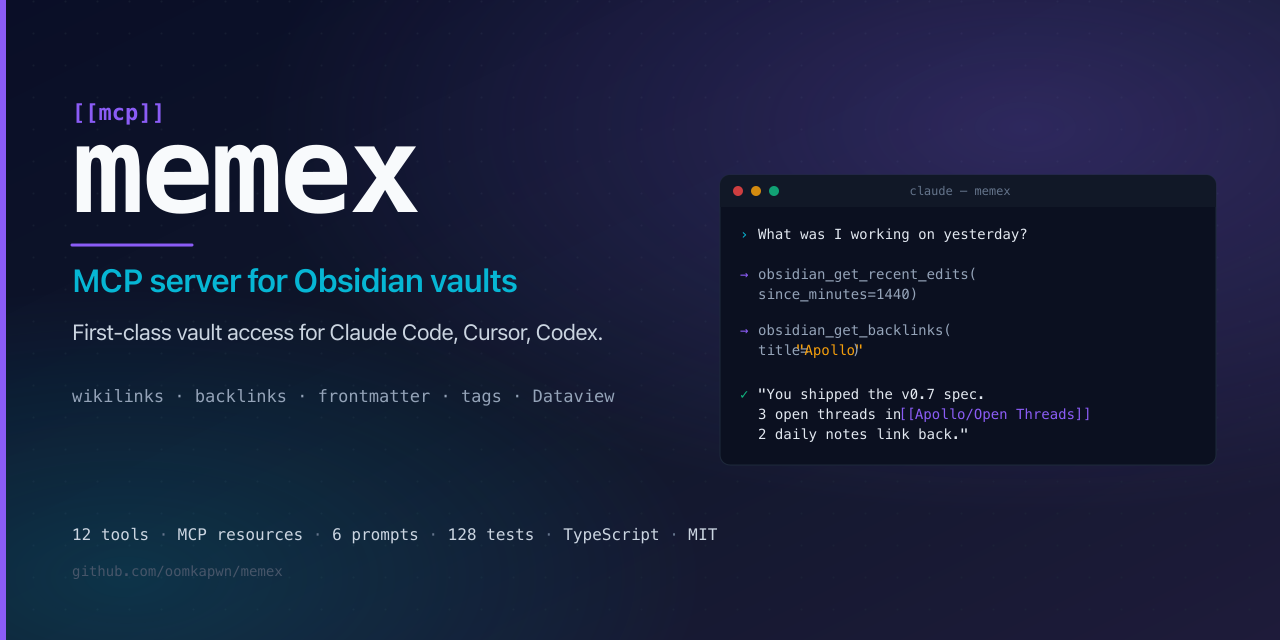
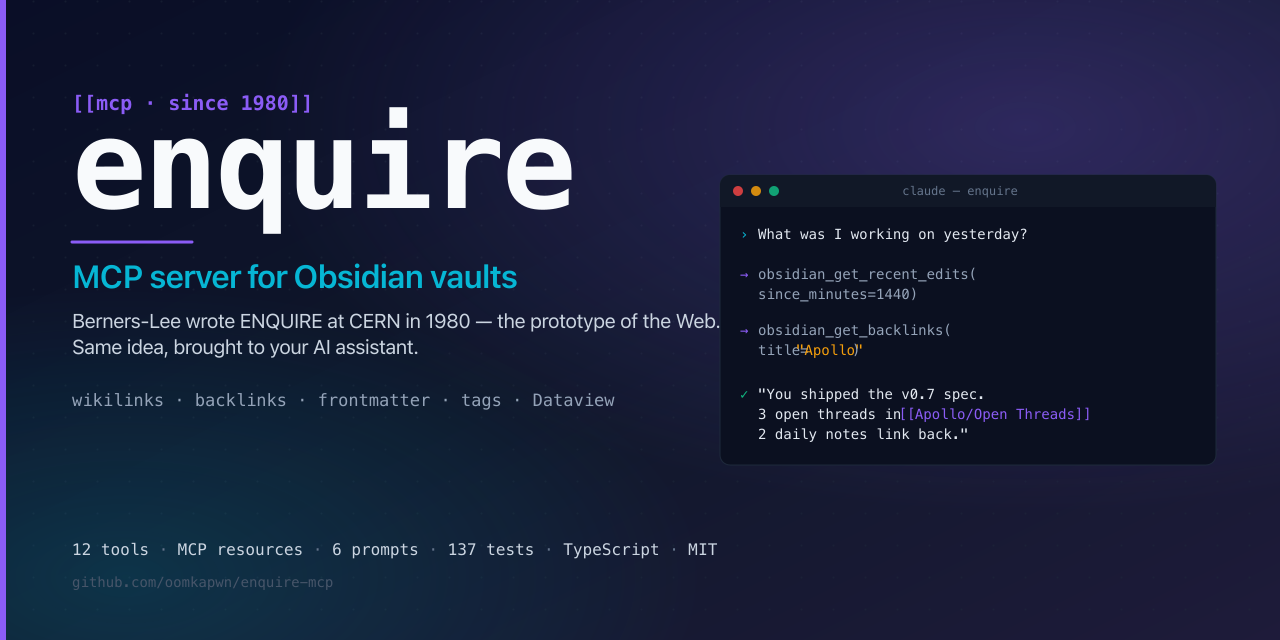
feat: v0.7.1 — rename memex → enquire-mcp (final)
Deeper landscape audit after v0.7.0 showed memex namespace is even
MORE crowded than obsidian-mcp:
- WorldBrain/Memex (browser ext with explicit memex-obsidian plugin)
- iamtouchskyer/memex (Zettelkasten persistent memory for AI agents,
  same client list — Claude Code/Cursor/Codex/Windsurf — same MCP)
- memex.tech (commercial product, just launched MCP)
- memex.ai (commercial brand)
- memex-ai npm package: "Memex AI MCP server for Claude Code"
- memex-vault, memex-md, @ai2070/memex, memex-cc, memex-life,
  memex-lab — at least a dozen others

ENQUIRE = Tim Berners-Lee's 1980 hypertext system at CERN. Direct
prototype of the World Wide Web. Cards with hyperlinked relationships
— exactly the data model we expose to AI agents over MCP. Bush's
memex was theoretical; ENQUIRE was real, working software. No
commercial trademark holder. Free on npm with -mcp suffix.

Renamed everywhere:
- npm: @oomkapwn/memex → @oomkapwn/enquire-mcp
- bin: memex-mcp → enquire-mcp
- repo: oomkapwn/memex → oomkapwn/enquire-mcp
- MCP server name (handshake): memex → enquire
- Boot stderr: "memex <v> ready" → "enquire <v> ready"
- Cache dir: ~/Library/Caches/memex/ → ~/Library/Caches/enquire/
- Banner redesigned: "enquire" hero, "MCP server for Obsidian vaults"
  cyan subtitle, Berners-Lee CERN 1980 tagline

obsidian_* tool names UNCHANGED — domain hint to LLM.

Disclaimer added: "enquire" is a tribute to Berners-Lee's 1980
system, not a trademark claim against any party.
[…]

diff --git a/src/index.ts b/src/index.ts
@@ -21,7 +21,7 @@ import {
 } from "./tools.js";
 import { Vault } from "./vault.js";
 
-const VERSION = "0.7.0";
+const VERSION = "0.7.1";
 
 interface ServeOptions {
   vault: string;
@@ -35,8 +35,8 @@ interface ServeOptions {
 async function main(): Promise<void> {
   const program = new Command();
   program
-    .name("memex-mcp")
-    .description("memex — MCP server for Obsidian vaults. Wikilinks, frontmatter, backlinks, basic Dataview")
+    .name("enquire-mcp")
+    .description("enquire — MCP server for Obsidian vaults. Named after Tim Berners-Lee's 1980 prototype of the WWW.")
     .version(VERSION);
 
   program
@@ -62,9 +62,9 @@ async function main(): Promise<void> {
       await vault.ensureExists();
       const removed = await vault.clearDiskCache();
       if (removed) {
-        process.stdout.write(`memex: removed cache file ${vault.cacheFile}\n`);
+        process.stdout.write(`enquire: removed cache file ${vault.cacheFile}\n`);
       } else {
-        process.stdout.write(`memex: no cache file at ${vault.cacheFile}\n`);
+        process.stdout.write(`enquire: no cache file at ${vault.cacheFile}\n`);
       }
     });
 
@@ -82,7 +82,7 @@ async function startServer(opts: ServeOptions): Promise<void> {
   await vault.ensureExists();
 
   const server = new McpServer({
-    name: "memex",
+    name: "enquire",
     version: VERSION
   });
 
@@ -104,7 +104,7 @@ async function startServer(opts: ServeOptions): Promise<void> {
         await vault.saveDiskCache();
         saved = true;
       } catch (err) {
-        process.stderr.write(`memex: cache flush failed — ${err instanceof Error ? err.message : String(err)}\n`);
+        process.stderr.write(`enquire: cache flush failed — ${err instanceof Error ? err.message : String(err)}\n`);
       } finally {
         saving = false;
       }
@@ -123,7 +123,7 @@ async function startServer(opts: ServeOptions): Promise<void> {
 
   const writeMode = vault.writeEnabled ? "WRITE-ENABLED" : "read-only";
   const cacheMode = vault.persistentCacheEnabled ? `, persistent-cache=${vault.cacheFile}` : "";
-  process.stderr.write(`memex ${VERSION} ready (${writeMode}, vault=${vault.root}${cacheMode})\n`);
+  process.stderr.write(`enquire ${VERSION} ready (${writeMode}, vault=${vault.root}${cacheMode})\n`);
 }
 
 function registerReadTools(server: McpServer, vault: Vault): void {
@@ -606,7 +606,7 @@ const isCliEntry = (() => {
 
 if (isCliEntry) {
   main().catch((err) => {
-    process.stderr.write(`memex fatal: ${err instanceof Error ? (err.stack ?? err.message) : String(err)}\n`);
+    process.stderr.write(`enquire fatal: ${err instanceof Error ? (err.stack ?? err.message) : String(err)}\n`);
     process.exit(1);
   });
 }

diff --git a/src/vault.ts b/src/vault.ts
@@ -31,7 +31,7 @@ export interface VaultOptions {
   maxCacheEntries?: number;
   enableWrite?: boolean;
   persistentCache?: boolean;
-  /** Override the cache file location. Default: ~/.cache/memex/<vault-hash>.json. */
+  /** Override the cache file location. Default: ~/.cache/enquire/<vault-hash>.json. */
   cacheFile?: string;
   /** Refuse to read/write a cache file larger than this (default 50 MB). */
   maxDiskCacheBytes?: number;
@@ -86,7 +86,7 @@ export class Vault {
       const stat = await fs.stat(this.cacheFile);
       if (stat.size > this.maxDiskCacheBytes) {
         process.stderr.write(
-          `memex: ignoring cache file (${stat.size} bytes > limit ${this.maxDiskCacheBytes}): ${this.cacheFile}\n`
+          `enquire: ignoring cache file (${stat.size} bytes > limit ${this.maxDiskCacheBytes}): ${this.cacheFile}\n`
         );
         return 0;
       }
@@ -181,7 +181,7 @@ export class Vault {
     const serialized = JSON.stringify(payload);
     if (Buffer.byteLength(serialized, "utf8") > this.maxDiskCacheBytes) {
       process.stderr.write(
-        `memex: refusing to write cache (${Buffer.byteLength(serialized, "utf8")} bytes > limit ${this.maxDiskCacheBytes}): ${this.cacheFile}\n`
+        `enquire: refusing to write cache (${Buffer.byteLength(serialized, "utf8")} bytes > limit ${this.maxDiskCacheBytes}): ${this.cacheFile}\n`
       );
       return;
     }
@@ -406,7 +406,7 @@ function defaultCacheFile(root: string): string {
     process.env.XDG_CACHE_HOME ??
     (process.platform === "darwin" ? path.join(os.homedir(), "Library", "Caches") : path.join(os.homedir(), ".cache"));
   const hash = createHash("sha1").update(root).digest("hex").slice(0, 12);
-  return path.join(base, "memex", `${hash}.json`);
+  return path.join(base, "enquire", `${hash}.json`);
 }
 
 async function walk(dir: string, root: string, out: FileEntry[]): Promise<void> {

diff --git a/README.md b/README.md
@@ -1,15 +1,15 @@
 <div align="center">
 
-<a href="https://github.com/oomkapwn/memex"><img src="./assets/social-preview.png" alt="memex — MCP server for Obsidian vaults. Wikilinks, frontmatter, backlinks, Dataview, MCP resources & prompts." width="100%"></a>
+<a href="https://github.com/oomkapwn/enquire-mcp"><img src="./assets/social-preview.png" alt="enquire — MCP server for Obsidian vaults. Wikilinks, frontmatter, backlinks, Dataview, MCP resources & prompts. Named after Tim Berners-Lee's 1980 prototype of the WWW." width="100%"></a>
 
-# memex
+# enquire
 
 ### MCP server for Obsidian vaults
 
 **Give Claude Code, Cursor, Codex, and Devin first-class access to your Obsidian vault — wikilinks resolved, frontmatter typed, backlinks indexed, Dataview queries, MCP resources, and read-only safety by default.**
 
-[![CI](https://github.com/oomkapwn/memex/actions/workflows/ci.yml/badge.svg)](https://github.com/oomkapwn/memex/actions/workflows/ci.yml)
-[![npm version](https://img.shields.io/npm/v/@oomkapwn/memex.svg)](https://www.npmjs.com/package/@oomkapwn/memex)
+[![CI](https://github.com/oomkapwn/enquire-mcp/actions/workflows/ci.yml/badge.svg)](https://github.com/oomkapwn/enquire-mcp/actions/workflows/ci.yml)
+[![npm version](https://img.shields.io/npm/v/@oomkapwn/enquire-mcp.svg)](https://www.npmjs.com/package/@oomkapwn/enquire-mcp)
 [![License: MIT](https://img.shields.io/badge/license-MIT-yellow.svg)](./LICENSE)
 [![Node](https://img.shields.io/badge/node-%E2%89%A520-brightgreen.svg)](#develop)
 [![MCP](https://img.shields.io/badge/MCP-1.29-8A2BE2.svg)](https://modelcontextprotocol.io/)
@@ -19,9 +19,9 @@
 
 </div>
 
-> **memex** is an [MCP](https://modelcontextprotocol.io/) server purpose-built for **[Obsidian](https://obsidian.md/) vaults**. Drop it in front of any vault and your AI assistant stops guessing at filesystem paths and starts reasoning about your notes the way you do — following `[[wikilinks]]`, respecting frontmatter, walking backlinks, running Dataview-style queries.
+> **enquire** is an [MCP](https://modelcontextprotocol.io/) server purpose-built for **[Obsidian](https://obsidian.md/) vaults**. Drop it in front of any vault and your AI assistant stops guessing at filesystem paths and starts reasoning about your notes the way you do — following `[[wikilinks]]`, respecting frontmatter, walking backlinks, running Dataview-style queries, all over stdio MCP.
 >
-> Named after Vannevar Bush's 1945 [Memex](https://en.wikipedia.org/wiki/Memex) — the original vision of a personal knowledge system with associative trails. obsidian-mcp by spirit, memex by name.
+> Named after [**ENQUIRE**](https://en.wikipedia.org/wiki/ENQUIRE) — the program Tim Berners-Lee wrote at CERN in 1980 to track «the complex web of relationships between people, programs, machines and ideas». ENQUIRE was the direct prototype of the World Wide Web. enquire-mcp brings the same idea to your AI: hyperlinked notes, structured access, no plugin required.
 
 ```text
 You:    "What was I working on yesterday in the Apollo project?"
@@ -34,30 +34,30 @@ Claude: → obsidian_get_recent_edits({ since_minutes: 1440, folder: "01_Project
 
 ---
 
-## Why memex exists (vs other Obsidian-MCP options)
+## Why enquire exists (vs other Obsidian-MCP options)
 
-There are several Obsidian-MCP servers out there. memex differentiates on three axes — **standalone**, **read-rich**, and **safe-by-default**:
+There are several Obsidian-MCP servers out there. enquire differentiates on three axes — **standalone**, **read-rich**, and **safe-by-default**:
 
-| Capability | Most Obsidian-MCPs | memex |
+| Capability (✅ = good for you) | Most Obsidian-MCPs | enquire |
 |---|:---:|:---:|
 | Works with `.md` files | ✅ | ✅ |
-| Requires Obsidian's Local REST API plugin | usually ✅ | ❌ — direct vault read |
-| Resolve `[[Wikilink]]` (alias, section, block, `../` relative) | partial | ✅ full |
-| Surface `![[Embed]]` separately from links | ❌ | ✅ |
-| Find every note linking to X (**backlinks**) | rare | ✅ ranked + snippets |
-| Find every **broken `[[wikilink]]`** in the vault | ❌ | ✅ vault-hygiene tool |
-| List **outbound links** for one note with resolution status | ❌ | ✅ |
-| Built-in **Dataview-style queries** (`LIST` / `TABLE`, `OR`, `LIKE`) | only via Obsidian plugin | ✅ first-class |
+| **Standalone** — runs without Obsidian's Local REST API plugin | ❌ usually requires it | ✅ direct vault read |
+| Resolves `[[Wikilink]]` with alias, section, block, `../` relative | partial | ✅ full |
+| Surfaces `![[Embed]]` separately from links | ❌ | ✅ |
+| Finds every note linking to X (**backlinks**) | rare | ✅ ranked + snippets |
+| Finds every **broken `[[wikilink]]`** in the vault | ❌ | ✅ vault-hygiene tool |
+| Lists **outbound links** for one note with resolution status | ❌ | ✅ |
+| Built-in **Dataview-style queries** (`LIST` / `TABLE`, `AND`/`OR`, `LIKE`) | only via Obsidian plugin | ✅ first-class |
 | **MCP resources** for browsing the vault as a tree | ❌ | ✅ |
 | **MCP prompts** (`summarize_recent`, `weekly_review`, `find_orphans`, `extract_todos`, `process_inbox`) | ❌ | ✅ 6 prompts |
-| **Read-only by default**, write tools opt-in | rarely | ✅ `--enable-write` |
+| **Read-only by default** (write tools require explicit flag) | ❌ usually write-default | ✅ `--enable-write` |
 | Symlink-escape safety, realpath-checked reads & writes | rare | ✅ |
 | Persistent on-disk cache for warm cold-starts | ❌ | ✅ `--persistent-cache` |
-| TypeScript strict + Biome lint + 128 unit tests | varies | ✅ |
+| TypeScript strict + Biome lint + 137 unit tests | varies | ✅ |
 
-That's the gap. memex closes it in ~2000 lines of TypeScript and four runtime dependencies.
+That's the gap. enquire closes it in ~2000 lines of TypeScript and four runtime dependencies.
 
-> **Not affiliated with Obsidian.md.** Obsidian and the Obsidian logo are trademarks of Dynalist Inc. memex is an independent open-source project that reads Obsidian-format vaults.
+> **Not affiliated with Obsidian.md.** Obsidian and the Obsidian logo are trademarks of Dynalist Inc. enquire-mcp is an independent open-source project that reads Obsidian-format vaults. The name «enquire» is a tribute to Tim Berners-Lee's 1980 hypertext system, not a trademark claim against any party.
 
 ---
 
@@ -73,8 +73,8 @@ That's the gap. memex closes it in ~2000 lines of TypeScript and four runtime de
 
 ```bash
 # 1. Get the code
-git clone https://github.com/oomkapwn/memex
-cd memex && npm install && npm run build
+git clone https://github.com/oomkapwn/enquire-mcp
+cd enquire-mcp && npm install && npm run build
 
 # 2. Wire into Claude Code (~/.claude.json or .mcp.json)
 ```
@@ -85,7 +85,7 @@ cd memex && npm install && npm run build
     "obsidian": {
       "command": "node",
       "args": [
-        "/absolute/path/to/memex/dist/index.js",
+        "/absolute/path/to/enquire-mcp/dist/index.js",
         "serve",
         "--vault", "/Users/you/Documents/Obsidian Vault"
       ]
@@ -102,7 +102,7 @@ cd memex && npm install && npm run build
   "mcpServers": {
     "obsidian": {
       "command": "npx",
-      "args": ["-y", "@oomkapwn/memex", "serve", "--vault", "/Users/you/Documents/Obsidian Vault"]
+      "args": ["-y", "@oomkapwn/enquire-mcp", "serve", "--vault", "/Users/you/Documents/Obsidian Vault"]
     }
   }
 }
@@ -114,13 +114,13 @@ cd memex && npm install && npm run build
 <summary><b>Or install globally</b></summary>
 
 ```bash
-npm install -g @oomkapwn/memex
-memex-mcp serve --vault ~/Documents/Obsidian\ Vault
+npm install -g @oomkapwn/enquire-mcp
+enquire-mcp serve --vault ~/Documents/Obsidian\ Vault
 ```
 
 </details>
 
-Restart your client. The server logs `memex <version> ready (read-only, vault=…)` on stderr — that's your "it's connected" signal.
+Restart your client. The server logs `enquire <version> ready (read-only, vault=…)` on stderr — that's your "it's connected" signal.
 
 ---
 
@@ -198,7 +198,7 @@ TABLE status FROM #idea WHERE status = "active" SORT file.mtime DESC
 ### 6. Daily journaling (write mode)
 > "Append a 'shipped today' bullet to today's daily note."
 
-With `--enable-write`: `obsidian_append_to_note({ title: "2026-05-03", content: "- Shipped memex v0.7" })`
+With `--enable-write`: `obsidian_append_to_note({ title: "2026-05-03", content: "- Shipped enquire v0.7.1" })`
 
 ---
 
@@ -206,7 +206,7 @@ With `--enable-write`: `obsidian_append_to_note({ title: "2026-05-03", content: 
 
 ```
 ┌─────────────────┐     stdio JSON-RPC     ┌─────────────────────┐
-│  Claude Code /  │ ◄────────────────────► │   memex             │
+│  Claude Code /  │ ◄────────────────────► │   enquire           │
 │  Cursor / Codex │   tools/resources/     │  (this server)      │
 └─────────────────┘   prompts                └─────────┬───────────┘
                                                       │
@@ -247,13 +247,13 @@ With `--enable-write`: `obsidian_append_to_note({ title: "2026-05-03", content: 
 
 ### Cache & privacy
 
-When `--persistent-cache` is on, parsed notes are serialized to disk so subsequent server restarts skip re-parsing. By default the file lives at `~/Library/Caches/memex/<sha1>.json` on macOS, `~/.cache/memex/<sha1>.json` on Linux. Important caveats:
+When `--persistent-cache` is on, parsed notes are serialized to disk so subsequent server restarts skip re-parsing. By default the file lives at `~/Library/Caches/enquire/<sha1>.json` on macOS, `~/.cache/enquire/<sha1>.json` on Linux. Important caveats:
 
 - **Full note bodies are stored**, not just metadata. Anyone who can read your home cache directory can read your vault.
 - **File mode is `0600`** (user-read/write only) and the parent directory is `0700`. We don't trust shared home directories.
-- **Deleted notes are purged** on the next server start: when memex sees a cached entry whose source file no longer exists, it drops the entry from memory and rewrites the cache file without it on shutdown.
+- **Deleted notes are purged** on the next server start: when enquire sees a cached entry whose source file no longer exists, it drops the entry from memory and rewrites the cache file without it on shutdown.
 - **Stale entries** (file mtime changed since cache write) are silently dropped on load; the source file is re-parsed.
-- **Manual purge:** run `memex-mcp clear-cache --vault <path>` to delete the cache file for a specific vault.
+- **Manual purge:** run `enquire-mcp clear-cache --vault <path>` to delete the cache file for a specific vault.
 - The cache file is **never read or written for vaults other than the one whose realpath matches the cache file's `root` field** — protects against cross-vault content leaks if you share a cache dir.
 
 The server logs `WRITE-ENABLED` to stderr on boot when the flag is on, so you can verify the mode at a glance.
@@ -292,8 +292,8 @@ We implement a deliberately small subset (`LIST` / `TABLE`, `FROM "folder" | #ta
 **How big a vault can it handle?**
 Tested daily against a 117-note vault. The walker is O(notes) per call; the cache makes repeat reads O(1). For 10k+ vaults a persistent index would help — that's on the Phase 3 roadmap.
 
-**Why scoped npm name (`@oomkapwn/memex`)?**
-A scoped name protects the brand and side-steps the very crowded `obsidian-mcp` / `mcp-obsidian` namespace on npm. The CLI binary is `memex-mcp`.
+**Why scoped npm name (`@oomkapwn/enquire-mcp`)?**
+A scoped name protects the brand and side-steps the very crowded `obsidian-mcp` / `mcp-obsidian` namespace on npm. The CLI binary is `enquire-mcp` to match the npm package name.
 
 ---
 
@@ -328,7 +328,7 @@ Build runs `tsc` and marks `dist/index.js` executable. CI tests Node 20 / 22 / 2
 
 Semantic versioning. See [CHANGELOG.md](./CHANGELOG.md) for the full history.
 
-- **0.7.x** — current. Renamed from `obsidian-mcp` to `memex`. 10 read tools, 2 opt-in write tools, MCP resources + prompts, persistent on-disk cache (opt-in), DQL with `OR` + `LIKE`, hardened security.
+- **0.7.x** — current. Renamed twice (`obsidian-mcp` → `memex` → `enquire-mcp`) to escape the crowded `obsidian-mcp` namespace and to land on a name with a clear historical referent — Tim Berners-Lee's 1980 ENQUIRE prototype of the Web. 10 read tools, 2 opt-in write tools, MCP resources + prompts, persistent on-disk cache (opt-in), DQL with `AND`/`OR`/`LIKE`, hardened security.
 - **Roadmap** — graph queries (multi-hop, hub/orphan detection); refactoring tools (`rename_note`, `rename_tag` with wikilink rewrite); DQL expressions / parentheses / `FLATTEN` / `GROUP BY`; performance benchmarks against 10k+ vaults.
 
 ---

diff --git a/CHANGELOG.md b/CHANGELOG.md
@@ -2,9 +2,46 @@
 
 All notable changes to this project will be documented here. The format follows [Keep a Changelog](https://keepachangelog.com/en/1.1.0/), and the project adheres to [Semantic Versioning](https://semver.org/spec/v2.0.0.html).
 
+## [0.7.1] — 2026-05-03
+
+**Second rename: `memex` → `enquire-mcp`.**
+
+### Why a second rename
+After v0.7.0 shipped under «memex», a deeper landscape audit revealed the `memex` namespace is even more contested than `obsidian-mcp`:
+- **[WorldBrain Memex](https://github.com/WorldBrain/Memex)** — established browser extension with an explicit **memex-obsidian** plugin. Direct user-confusion risk.
+- **[iamtouchskyer/memex](https://github.com/iamtouchskyer/memex)** (npm `@touchskyer/memex`) — Zettelkasten persistent memory for AI coding agents. Same client list (Claude Code / Cursor / Codex / Windsurf), same MCP positioning. Functionally near-identical.
+- **[memex.tech](https://memex.tech/)** — commercial product with active MCP launch.
+- **[memex.ai](https://memex.ai/)** — commercial brand.
+- **[`memex-ai`](https://www.npmjs.com/package/memex-ai)** npm package: «Install the Memex AI MCP server for Claude Code and Claude Desktop». Tight collision.
+- Plus `memex-md`, `@ai2070/memex`, `memex-cc`, `memex-vault` (Obsidian template), `memex-life/memex`, `memex-lab/memex`, etc.
+
+We traded one crowded namespace for an even more crowded one. Time to commit to a name with a unique historical referent and minimal commercial collision.
+
+### Why ENQUIRE
+[**ENQUIRE**](https://en.wikipedia.org/wiki/ENQUIRE) is the program Tim Berners-Lee wrote at CERN in 1980 to track «the complex web of relationships between people, programs, machines and ideas». It was the **direct prototype of the World Wide Web** — cards with hyperlinked relationships, exactly the data model we expose to AI agents over MCP. Bush's memex was theoretical; ENQUIRE was real, working hypertext software. No commercial trademark holder. Available on npm with `-mcp` suffix and across all relevant places.
+
+### Renamed
+- npm package: `@oomkapwn/memex` → `@oomkapwn/enquire-mcp`
+- CLI binary: `memex-mcp` → `enquire-mcp`
+- GitHub repo: `oomkapwn/memex` → `oomkapwn/enquire-mcp`
+- MCP server `name` reported in handshake: `memex` → `enquire`
+- Boot stderr message: `memex <v> ready` → `enquire <v> ready`
+- Default cache dir: `~/Library/Caches/memex/` → `~/Library/Caches/enquire/`
+- Banner redesigned: «enquire» as brand, «MCP server for Obsidian vaults» subtitle in cyan, Berners-Lee tagline.
+- README hero rewritten with the ENQUIRE narrative + Wikipedia link to ENQUIRE.
+
+### Tool names: still unchanged
+`obsidian_*` tool names (`obsidian_list_notes`, etc.) **remain `obsidian_`-prefixed** by design. The prefix tells the LLM what domain it's operating in.
+
+### Disclaimer reaffirmed
+README and SECURITY.md still carry the «Not affiliated with Obsidian.md» notice. Added clarification that the «enquire» name is a tribute to Berners-Lee's 1980 system, not a trademark claim.
+
+### Tests
+Still 137 unit tests, all green. No code changes — pure rename + docs.
+
 ## [0.7.0] — 2026-05-03
 
-**Project renamed: `obsidian-mcp` → `memex`.**
+**First rename: `obsidian-mcp` → `memex`.**
 
 ### Why the rename
 - The npm/GitHub `obsidian-mcp` namespace turned out to be crowded — at least 12 GitHub projects and 4 npm packages with overlapping names. We're indistinguishable in search.

diff --git a/SECURITY.md b/SECURITY.md
@@ -2,9 +2,9 @@
 
 ## Reporting a vulnerability
 
-If you've found a security issue in memex, **please don't open a public GitHub issue**. Instead:
+If you've found a security issue in enquire, **please don't open a public GitHub issue**. Instead:
 
-1. Email the maintainer at `oomkapwn@gmail.com` with the subject `memex security`.
+1. Email the maintainer at `oomkapwn@gmail.com` with the subject `enquire security`.
 2. Include a reproducer if you have one — vault layout, exact CLI flags, the operation that triggered the issue.
 3. Expect an acknowledgement within 72 hours.
 
@@ -39,11 +39,11 @@ Only the latest minor release receives security patches. We bump the patch versi
 
 ## Persistent cache: privacy posture
 
-When `--persistent-cache` is enabled, full note bodies are written to a JSON file under `~/Library/Caches/memex/` (macOS) or `~/.cache/memex/` (Linux).
+When `--persistent-cache` is enabled, full note bodies are written to a JSON file under `~/Library/Caches/enquire/` (macOS) or `~/.cache/enquire/` (Linux).
 
 - File mode is **`0600`**, parent directory mode is **`0700`** — restricted to the user account.
 - Cache file is rejected if its `root` field doesn't match the current vault realpath (cross-vault protection).
 - Cache file is rejected if its declared `version` doesn't match the current schema version.
 - Deleted notes: on load, entries whose source file no longer exists are dropped from memory AND the cache is marked dirty so the next save rewrites the file without those entries.
-- Manual purge: `memex-mcp clear-cache --vault <path>` deletes the cache file.
+- Manual purge: `enquire-mcp clear-cache --vault <path>` deletes the cache file.
 - **Caveat:** anyone with read access to your user account can read the cache file. If your threat model includes other local users on the same machine, do not use `--persistent-cache`.

diff --git a/docs/api.md b/docs/api.md
@@ -1,6 +1,6 @@
-# memex — API (v0.7)
+# enquire — API (v0.7)
 
-**memex is an MCP server for Obsidian vaults.** 12 MCP tools (10 read + 2 opt-in write), 2 MCP resources, 6 MCP prompts. The server speaks stdio JSON-RPC and is launched per-vault.
+**enquire is an MCP server for Obsidian vaults.** 12 MCP tools (10 read + 2 opt-in write), 2 MCP resources, 6 MCP prompts. The server speaks stdio JSON-RPC and is launched per-vault.
 
 ## CLI flags
 
@@ -11,7 +11,7 @@
 | `--max-file-bytes <n>` | 5 MB    | Max size for any single file read/write.   |
 | `--cache-size <n>`     | 1024    | LRU cap for parsed-note cache.             |
 | `--persistent-cache`   | off     | Persist parsed-note cache to disk so cold starts skip re-parsing. **Stores full note bodies — see [Cache & privacy](../README.md#cache--privacy).** |
-| `--cache-file <path>`  | auto    | Override the persistent-cache file location. Default: `~/Library/Caches/memex/<vault-hash>.json` (macOS) or `~/.cache/memex/<vault-hash>.json` (Linux). |
+| `--cache-file <path>`  | auto    | Override the persistent-cache file location. Default: `~/Library/Caches/enquire/<vault-hash>.json` (macOS) or `~/.cache/enquire/<vault-hash>.json` (Linux). |
 
 ## Subcommands
 

diff --git a/CONTRIBUTING.md b/CONTRIBUTING.md
@@ -1,12 +1,12 @@
-# Contributing to memex
+# Contributing to enquire-mcp
 
-Thanks for your interest. memex is a small, opinionated MCP server for Obsidian vaults — the bar for new features is "does it pull weight against an Obsidian vault on day 1." The bar for fixes is much lower.
+Thanks for your interest. enquire-mcp is a small, opinionated MCP server for Obsidian vaults — the bar for new features is "does it pull weight against an Obsidian vault on day 1." The bar for fixes is much lower.
 
 ## Getting started
 
 ```bash
-git clone https://github.com/oomkapwn/memex
-cd memex
+git clone https://github.com/oomkapwn/enquire-mcp
+cd enquire-mcp
 npm install
 npm run build
 npm test
